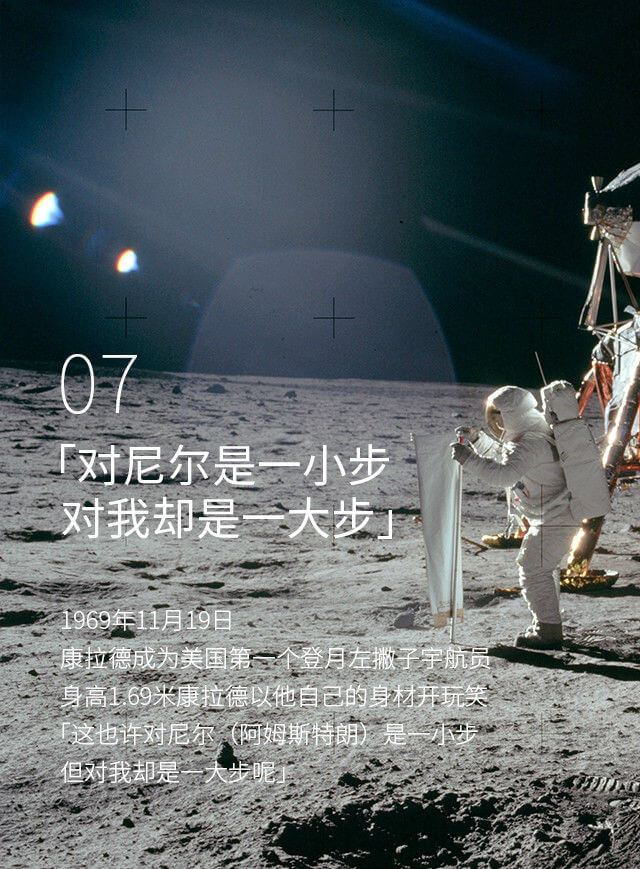
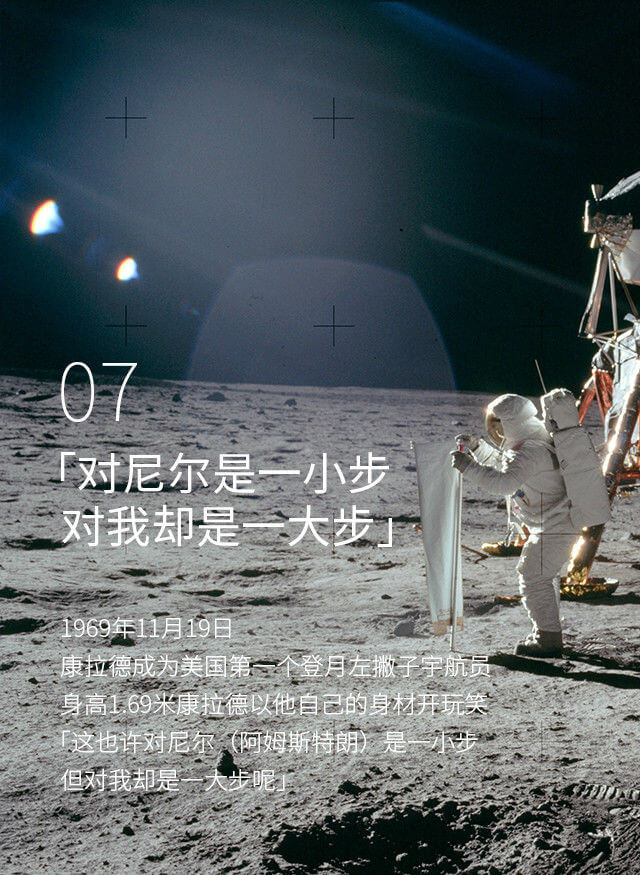
change images

diff --git a/explore/index.html b/explore/index.html
@@ -43,11 +43,14 @@
     var music  = $('.music');
     var audio  = $('audio')[0];
 
-    for(var i = 0; i <= 10; i++) {
+    for(var i = 1; i <= 8; i++) {
       var bg = '.bg-' + i;
-      $(bg).css('height', width);
+      $(bg).css('width', width);
       $(bg).css('height', height);
     }
+
+    $('.text-7').css('width', width);
+    $('.text-7').css('height', height);
 
     if((height/width) < 1.7 ) {
       $('#pagepiling').pagepiling({
@@ -76,7 +79,7 @@
           }
           if (index == 5) {
             $('.bg-7').attr('src', 'images/7-sm.jpg');
-            $('.text-7').attr('src','images/7-text-sm.jpg');
+            $('.text-7').attr('src', 'images/7-text-sm.jpg');
           }
           if (index == 6) {
             $('.bg-8').attr('src', 'images/8-sm.jpg');
@@ -159,7 +162,7 @@
   var _hmt=_hmt||[];(function(){var b=document.createElement("script");b.src="//hm.baidu.com/hm.js?897c5e90b15f7f050e35c66b6978bd2c";var a=document.getElementsByTagName("script")[0];a.parentNode.insertBefore(b,a)})();
 </script>
 <script>
-  var imgUrl="http://www.bigertech.com/content/images/2014/Dec/wallhaven-34414-1.jpg";var lineLink="http://www.bigertech.com";var descContent="我们是探索者，是先驱";var shareTitle="我们不是守护者，是探索者，是先驱。魅族旗下笔戈科技与环球杂志新媒体联合出品，向太空探索者致敬。图片录音来自NASA资料库，历史录音来自阿波罗11号登月实况录音片段。";var appid="";function shareFriend(){WeixinJSBridge.invoke("sendAppMessage",{appid:appid,img_url:imgUrl,img_width:"200",img_height:"200",link:lineLink,desc:descContent,title:shareTitle},function(a){})}function shareTimeline(){WeixinJSBridge.invoke("shareTimeline",{img_url:imgUrl,img_width:"200",img_height:"200",link:lineLink,desc:descContent,title:shareTitle},function(a){})}function shareWeibo(){WeixinJSBridge.invoke("shareWeibo",{content:descContent,url:lineLink,},function(a){})}document.addEventListener("WeixinJSBridgeReady",function onBridgeReady(){WeixinJSBridge.on("menu:share:appmessage",function(a){shareFriend()});WeixinJSBridge.on("menu:share:timeline",function(a){shareTimeline()});WeixinJSBridge.on("menu:share:weibo",function(a){shareWeibo()})},false);
+  var imgUrl="http://www.bigertech.com/content/images/2014/Dec/wallhaven-34414-1.jpg";var lineLink="http://www.bigertech.com";var descContent="我们不是守护者，是探索者，是先驱。魅族旗下笔戈科技与环球杂志新媒体联合出品，向太空探索者致敬。图片录音来自NASA资料库，历史录音来自阿波罗11号登月实况录音片段。";var shareTitle="我们是探索者，是先驱";var appid="";function shareFriend(){WeixinJSBridge.invoke("sendAppMessage",{appid:appid,img_url:imgUrl,img_width:"200",img_height:"200",link:lineLink,desc:descContent,title:shareTitle},function(a){})}function shareTimeline(){WeixinJSBridge.invoke("shareTimeline",{img_url:imgUrl,img_width:"200",img_height:"200",link:lineLink,desc:descContent,title:shareTitle},function(a){})}function shareWeibo(){WeixinJSBridge.invoke("shareWeibo",{content:descContent,url:lineLink,},function(a){})}document.addEventListener("WeixinJSBridgeReady",function onBridgeReady(){WeixinJSBridge.on("menu:share:appmessage",function(a){shareFriend()});WeixinJSBridge.on("menu:share:timeline",function(a){shareTimeline()});WeixinJSBridge.on("menu:share:weibo",function(a){shareWeibo()})},false);
 </script>
 </body>
 </html>

diff --git a/explore/index.css b/explore/index.css
@@ -59,10 +59,12 @@ body    { background-color:#000; }
   -webkit-transform:translate3d(0, 0, 0) scale(2.35);
 }
 .text-7 {
+  display:none;
   position:absolute;
   top:0;
+  right: 0;
+  bottom: 0;
   left:0;
-  display:none;
 }
 
 .text-8 {
